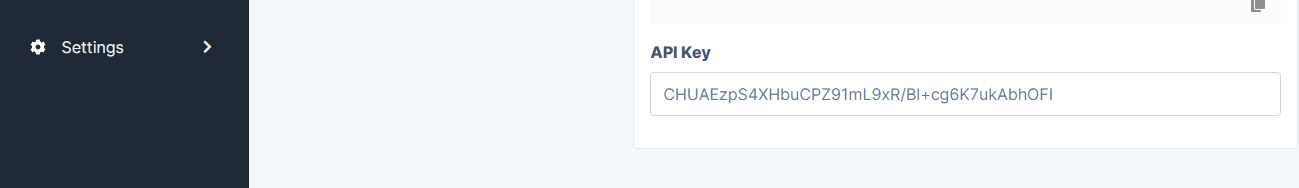
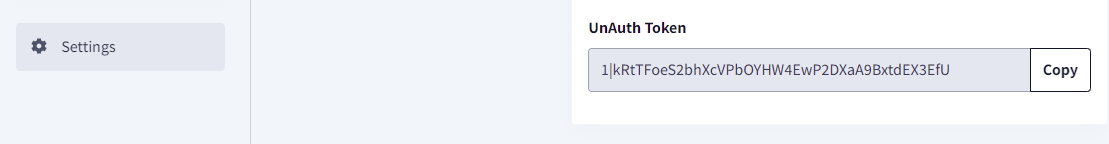
update

diff --git a/docs/api-sdk/api-overview.md b/docs/api-sdk/api-overview.md
@@ -14,7 +14,7 @@ This guide introduces the different methods of authenticating and authorizing in
 
 There are 2 types of authentication in Printcart API:
 - Basic HTTP Authentication
-- API Key
+- UnAuth Token
 
 ### Basic HTTP Authentication
 
@@ -30,21 +30,21 @@ To authenticate with HTTP, you may provide a username and password with the foll
 https://username:password@api.printcart.com/v1/your_desired_path
 ```
 
-### API Key
+### UnAuth Token
 
 Some Printcart API endpoints don't need your username and password to authenticate. Those endpoints only interact with your public data so the code can be shared publicly.
 
-To request to those endpoints, you only need to send `API Key` in the `Authorization` header:
+To request to those endpoints, you only need to send `UnAuth Token` in the `X-PrintCart-Unauth-Token` header:
 
 ```
-Authorization: Bearer <token>
+X-PrintCart-Unauth-Token: <UnAuth Token>
 ```
 
-In order to get your API key, please copy the `API Key` at this [link](https://dashboard.printcart.com/settings).
+In order to get your UnAuth Token, please copy the `UnAuth Token` at this [link](https://dashboard.printcart.com/settings).
 
-![Get Printcart API Key](/img/get-api-key.png)
+![Get Printcart UnAuth Token](/img/get-api-key.png)
 
-Check our [API Reference](/rest-api-reference) for all endpoints that can be authenticated with API Key.
+Check our [API Reference](/rest-api-reference) for all endpoints that can be authenticated with UnAuth Token.
 
 ## Status codes
 
